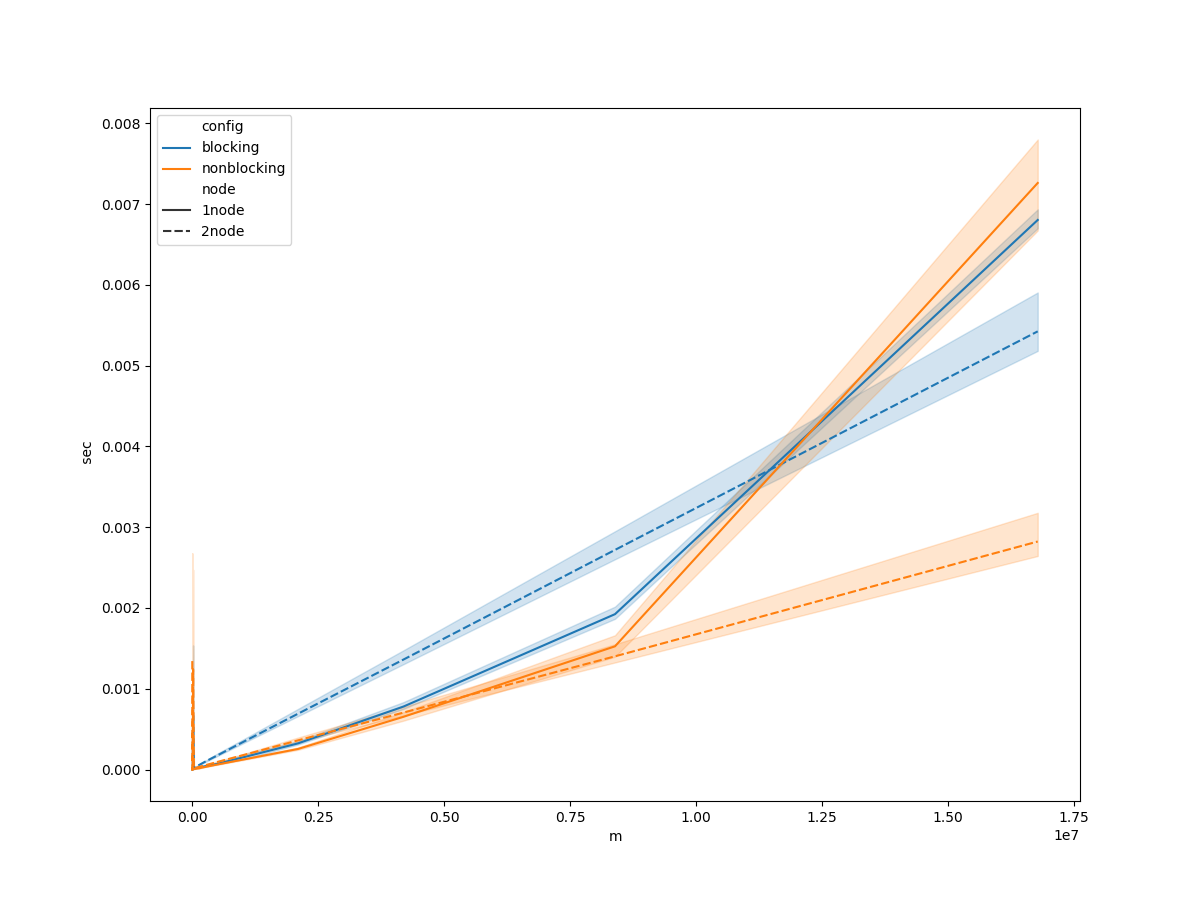
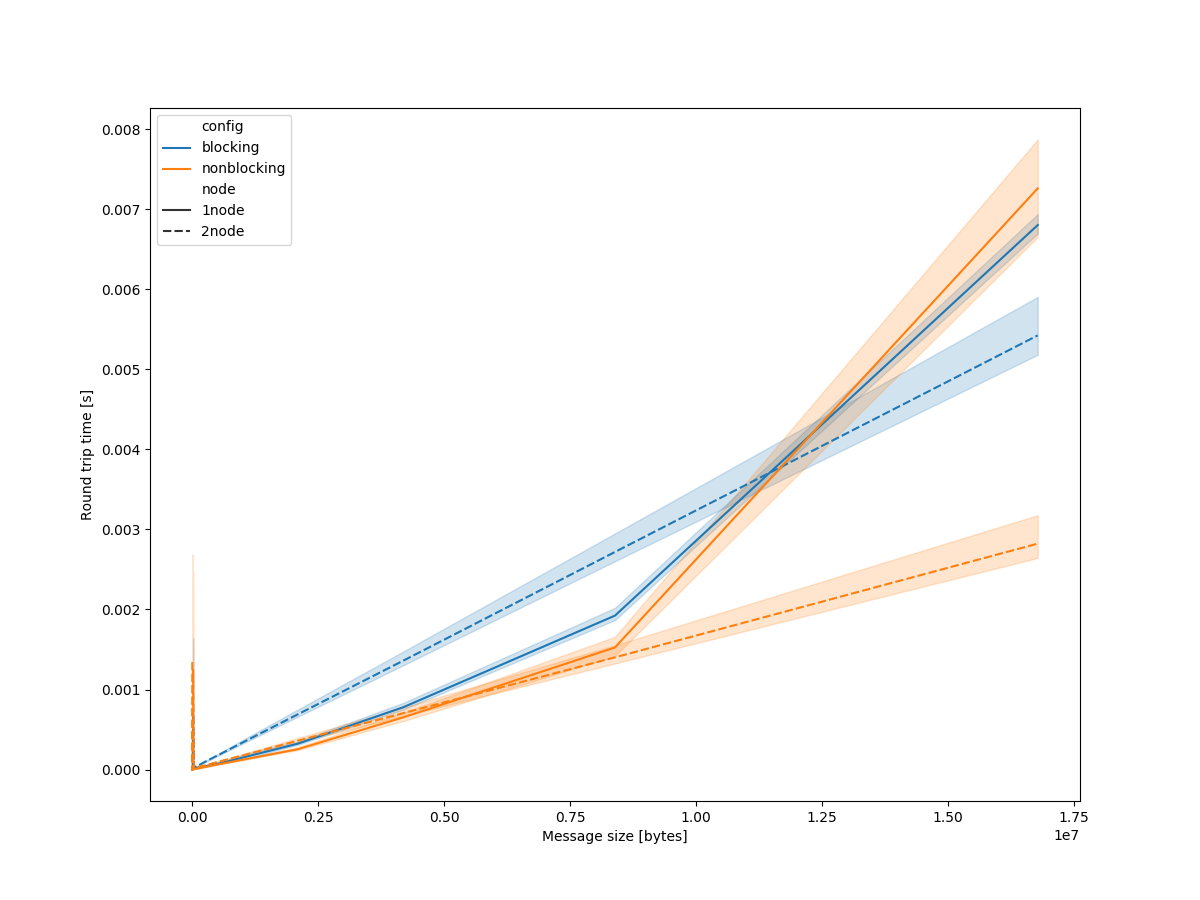
Add axis labels

diff --git a/ica6/plot.py b/ica6/plot.py
@@ -15,12 +15,17 @@ df = pd.concat(dfs)
 ax = sns.lineplot(x='m', y=' sec', hue='config', style='node', data=df)
 ax.set_xscale("log")
 ax.set_yscale("log")
+ax.set_ylabel('Round trip time [s]')
+ax.set_xlabel('Message size [bytes]')
 
 plt.gcf().set_size_inches(12,9)
 plt.savefig('log-log.png')
 plt.clf()
 
 ax = sns.lineplot(x='m', y=' sec', hue='config', style='node', data=df)
+ax.set_ylabel('Round trip time [s]')
+ax.set_xlabel('Message size [bytes]')
+
 
 plt.gcf().set_size_inches(12,9)
 plt.savefig('linear-linear.png')
